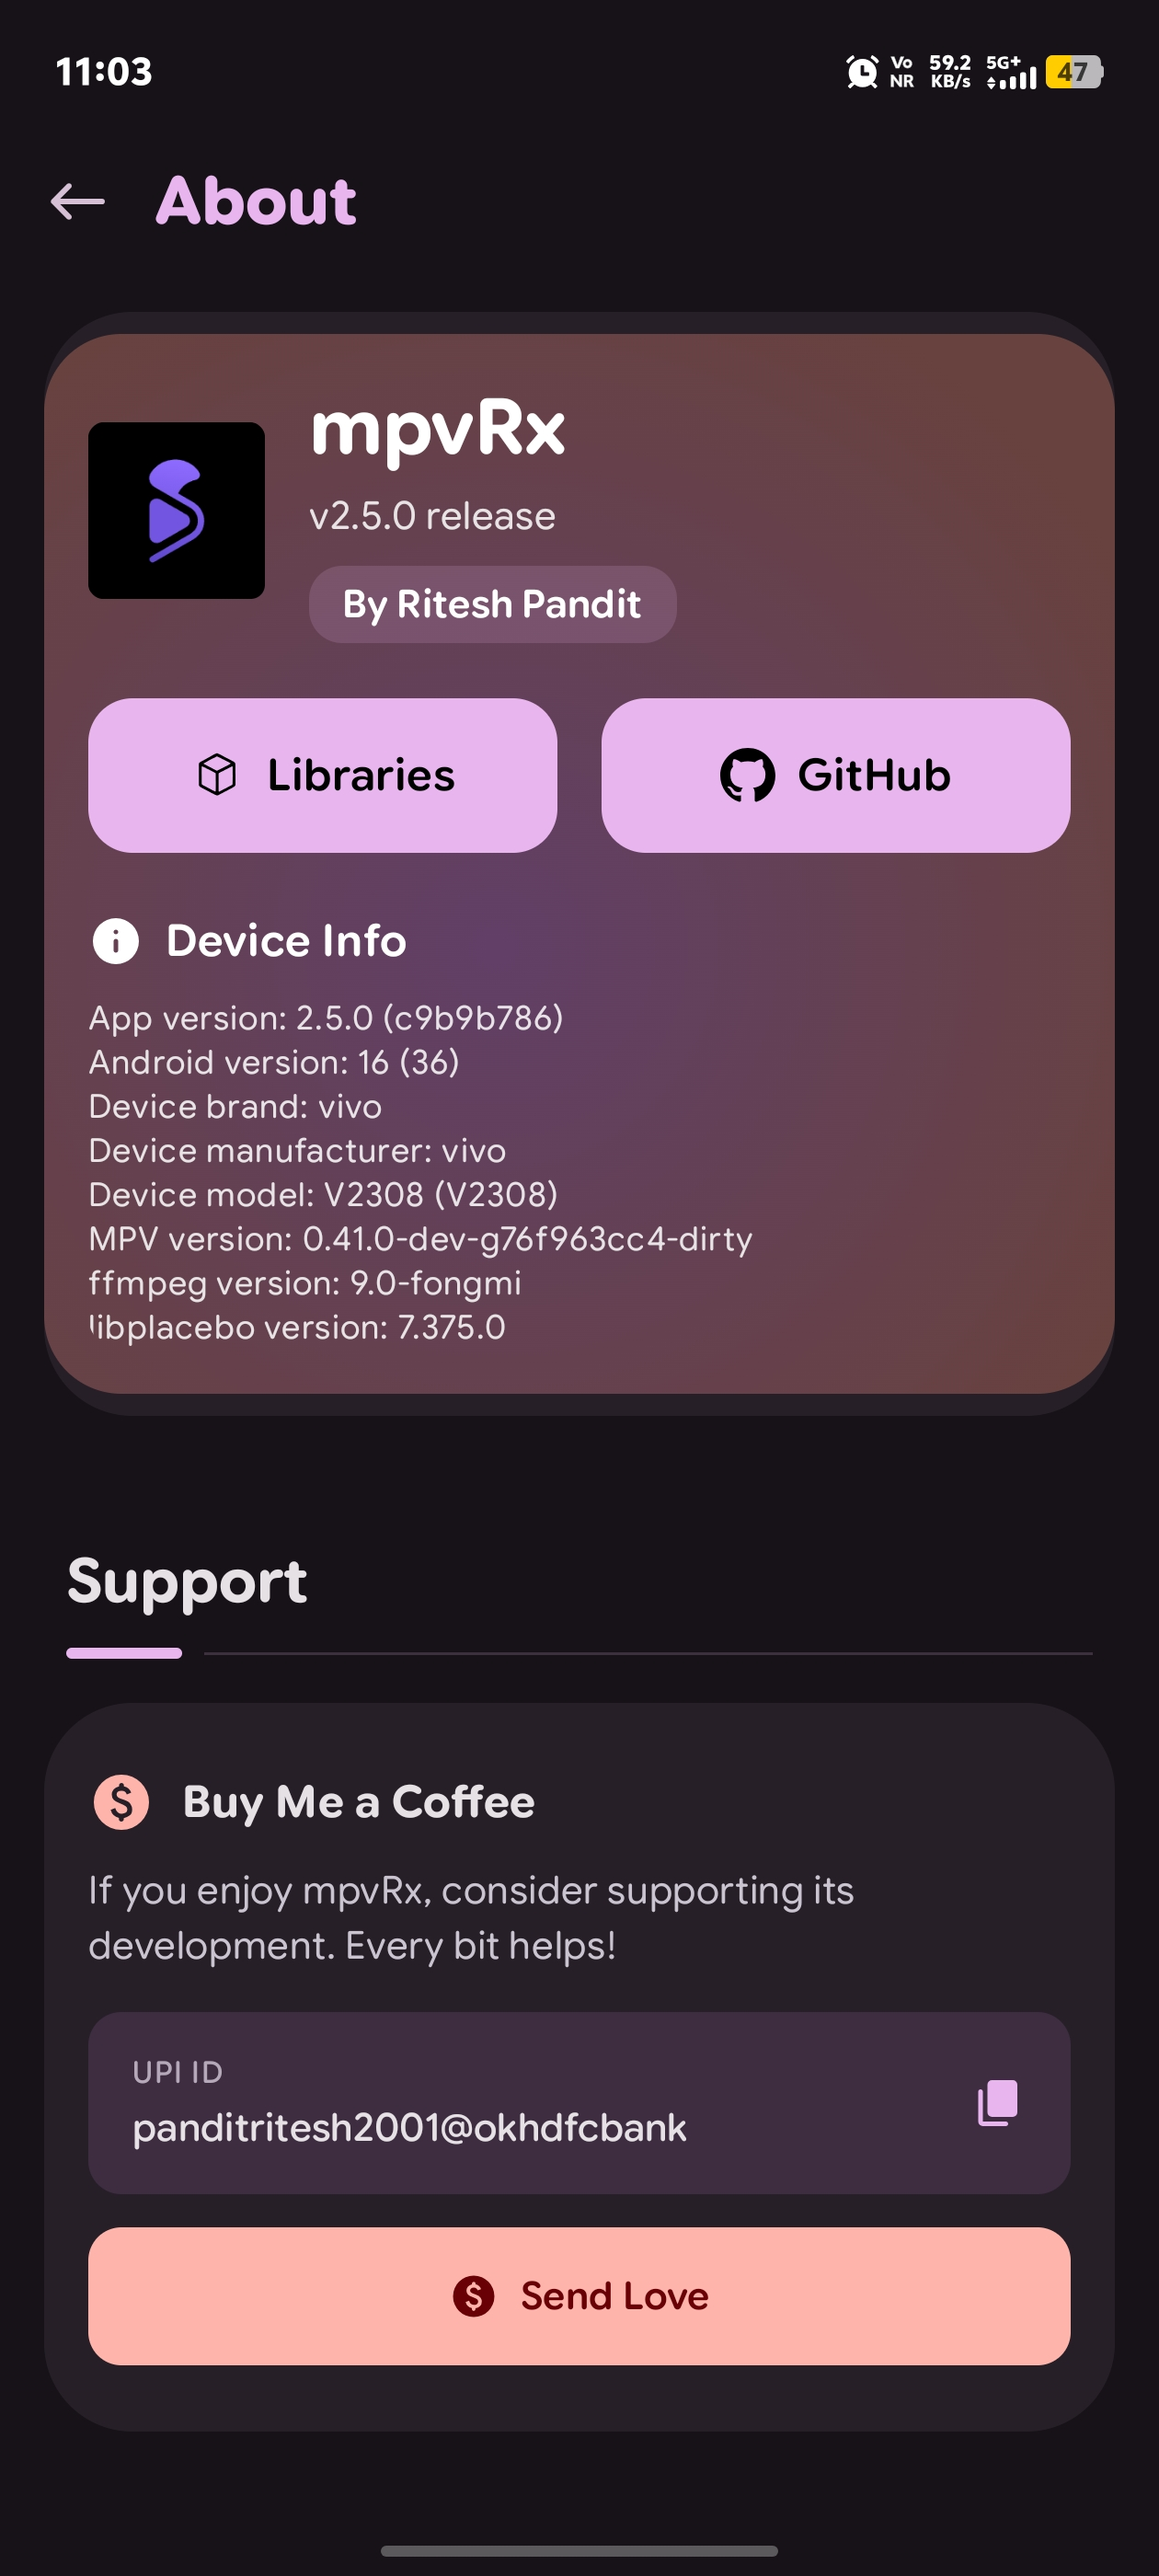
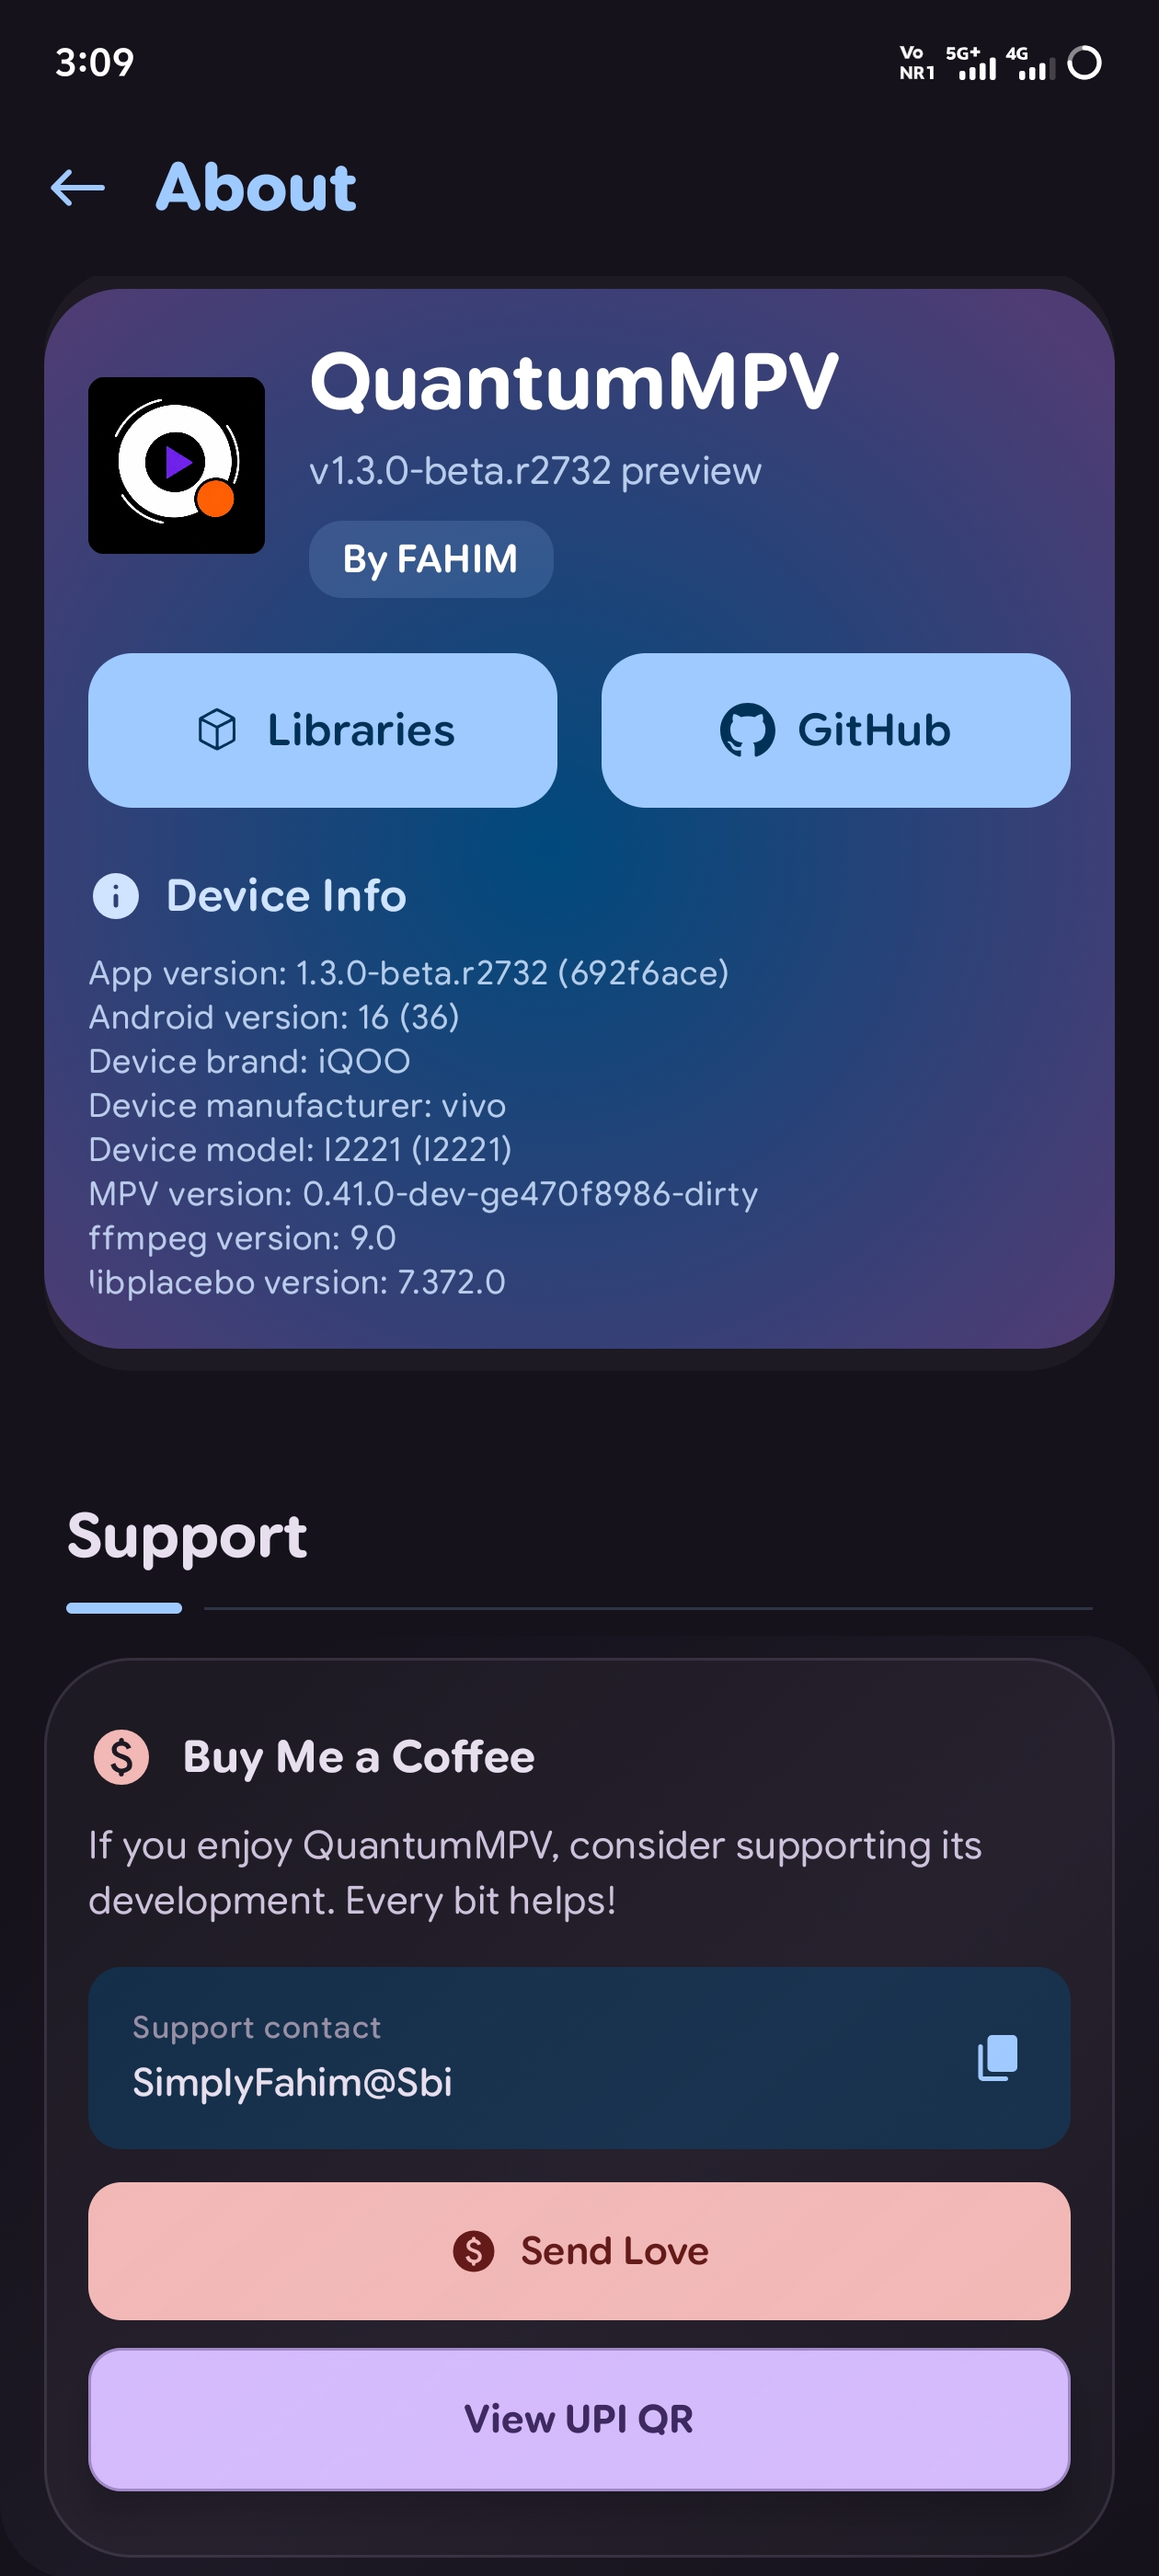
docs: add About screen to public showcases
Publish the new About screen screenshot in the GitHub README and Vercel website showcase.

diff --git a/README.md b/README.md
@@ -58,6 +58,12 @@
   <img src="fastlane/metadata/android/en-US/images/phoneScreenshots/chapters.png" width="48%">
 </div>
 
+<br>
+
+<div align="center">
+  <img src="fastlane/metadata/android/en-US/images/phoneScreenshots/about-screen.jpg" width="31%" alt="QuantumMPV About screen">
+</div>
+
 ---
 
 ## Features
